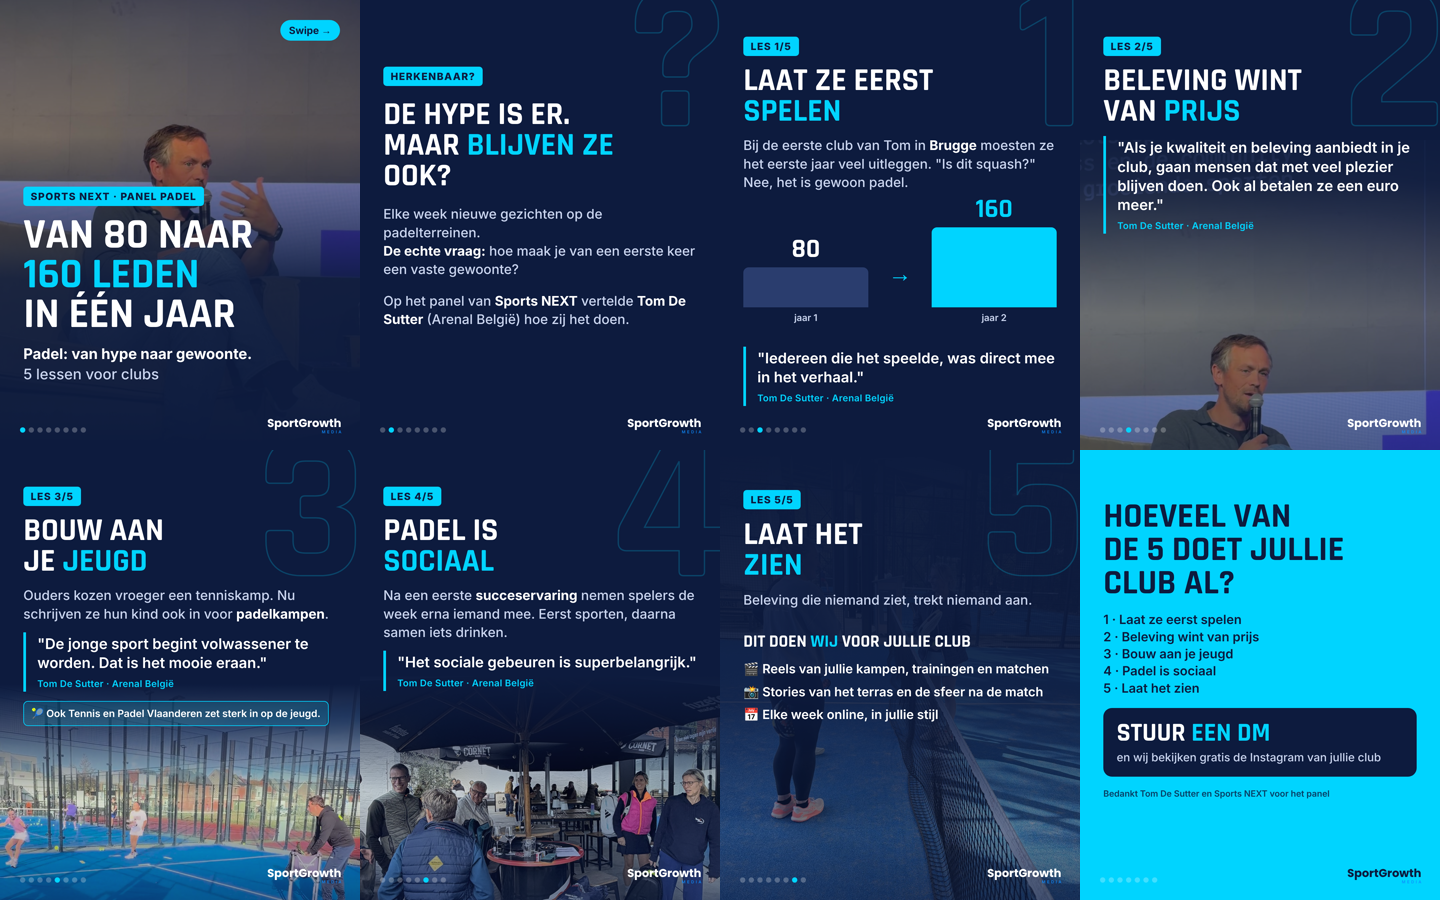
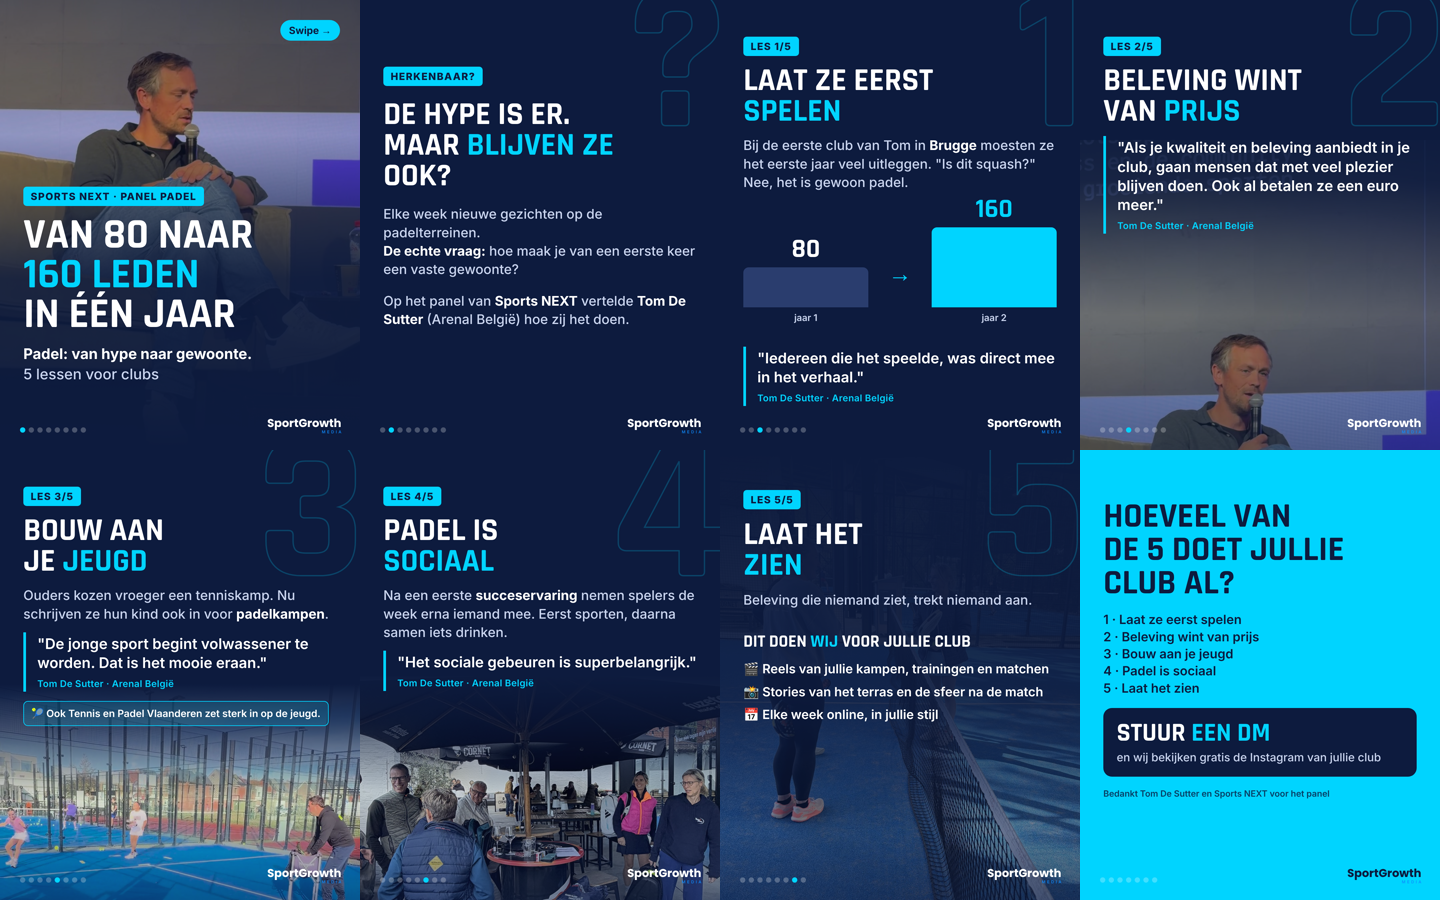
Carrousel hype: cover met Tom zijn gezicht vrij
Claude-Session: https://claude.ai/code/session_01QkSWZzWLTduRQtPp2zathG

Changed region(s): [[0.0, 0.0622, 0.25, 0.3111]]

diff --git a/instagram/carrousel-hype-gewoonte/build.js b/instagram/carrousel-hype-gewoonte/build.js
@@ -48,7 +48,7 @@ if (process.env.COVER === 'b') S.push(page(1, `
 <h1 style="font-size:112px">Van 80 naar<br><span class="c">160 leden</span><br>in één jaar</h1>
 <p class="t" style="font-size:40px"><b>Padel: van hype naar gewoonte.</b><br>5 lessen voor clubs</p>
 </div>`)); else S.push(page(1, `
-<div class="bg" style="background-image:${i64(OUT + '/tom-1.jpg')};background-position:center 62%"></div><div class="dim"></div>
+<div class="bg" style="background-image:${i64(OUT + '/tom-cover.jpg')};background-position:center 96%"></div><div class="dim"></div>
 <div class="swipe">Swipe →</div>
 <div class="col" style="top:560px">
 <span class="tag">SPORTS NEXT · PANEL PADEL</span>
